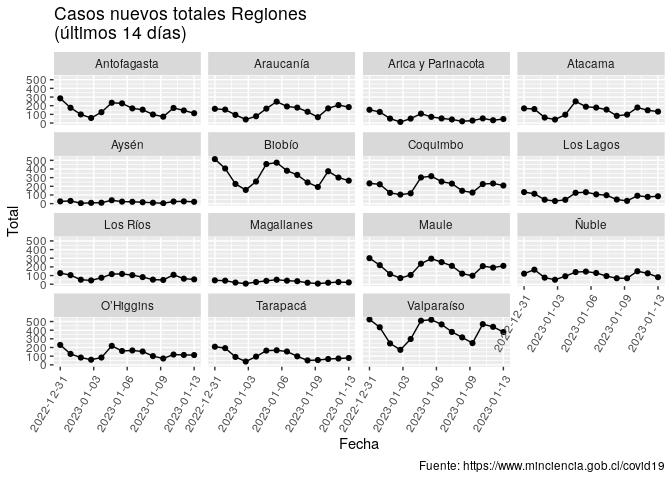
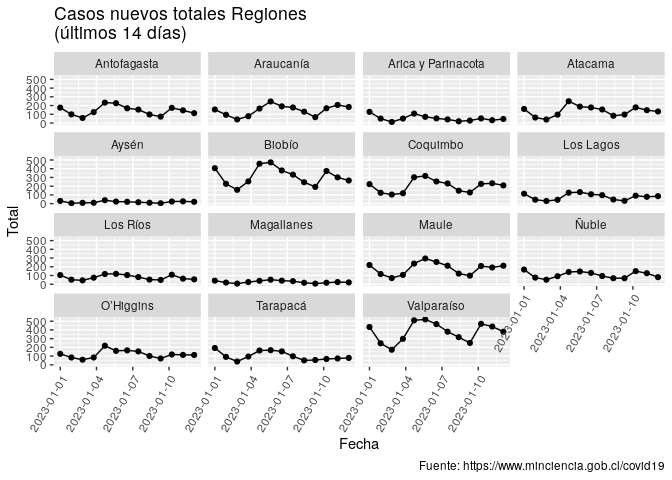
Re-build Rmarkdown files

diff --git a/README.md b/README.md
@@ -3,7 +3,7 @@
 
 Ejemplo de uso de total\_casos de COVID recopilados por el Ministerio de
 Ciencia de Chile <https://www.minciencia.gob.cl/covid19>. Última
-actualización: 2023-01-13
+actualización: 2023-01-14
 
 ## Visualización desde el comienzo de la pandemia
 
